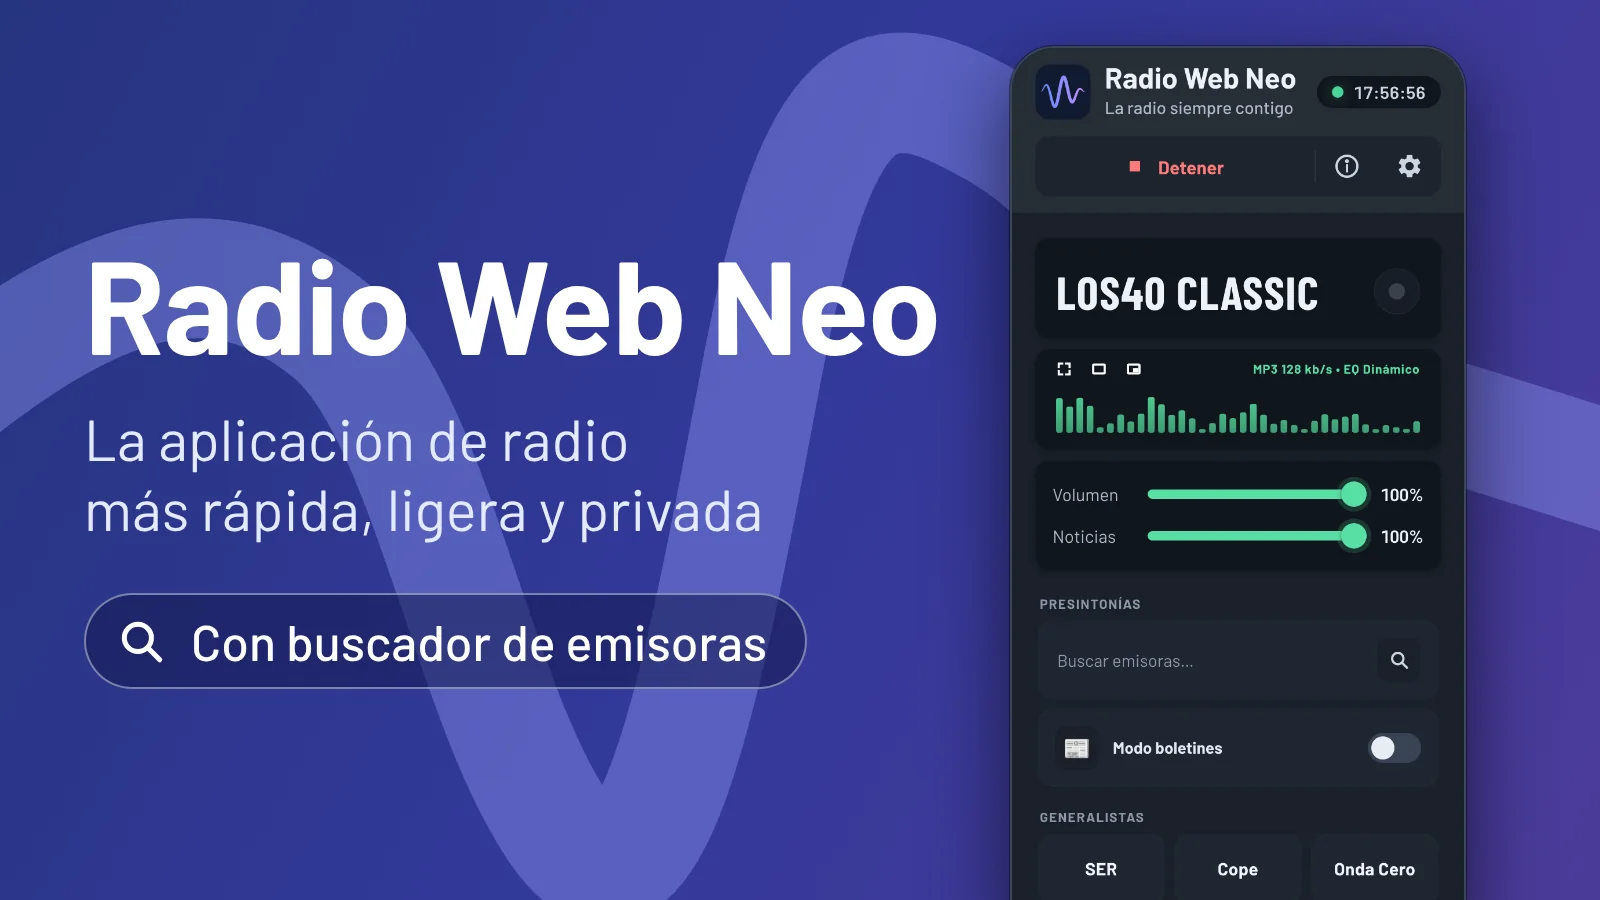
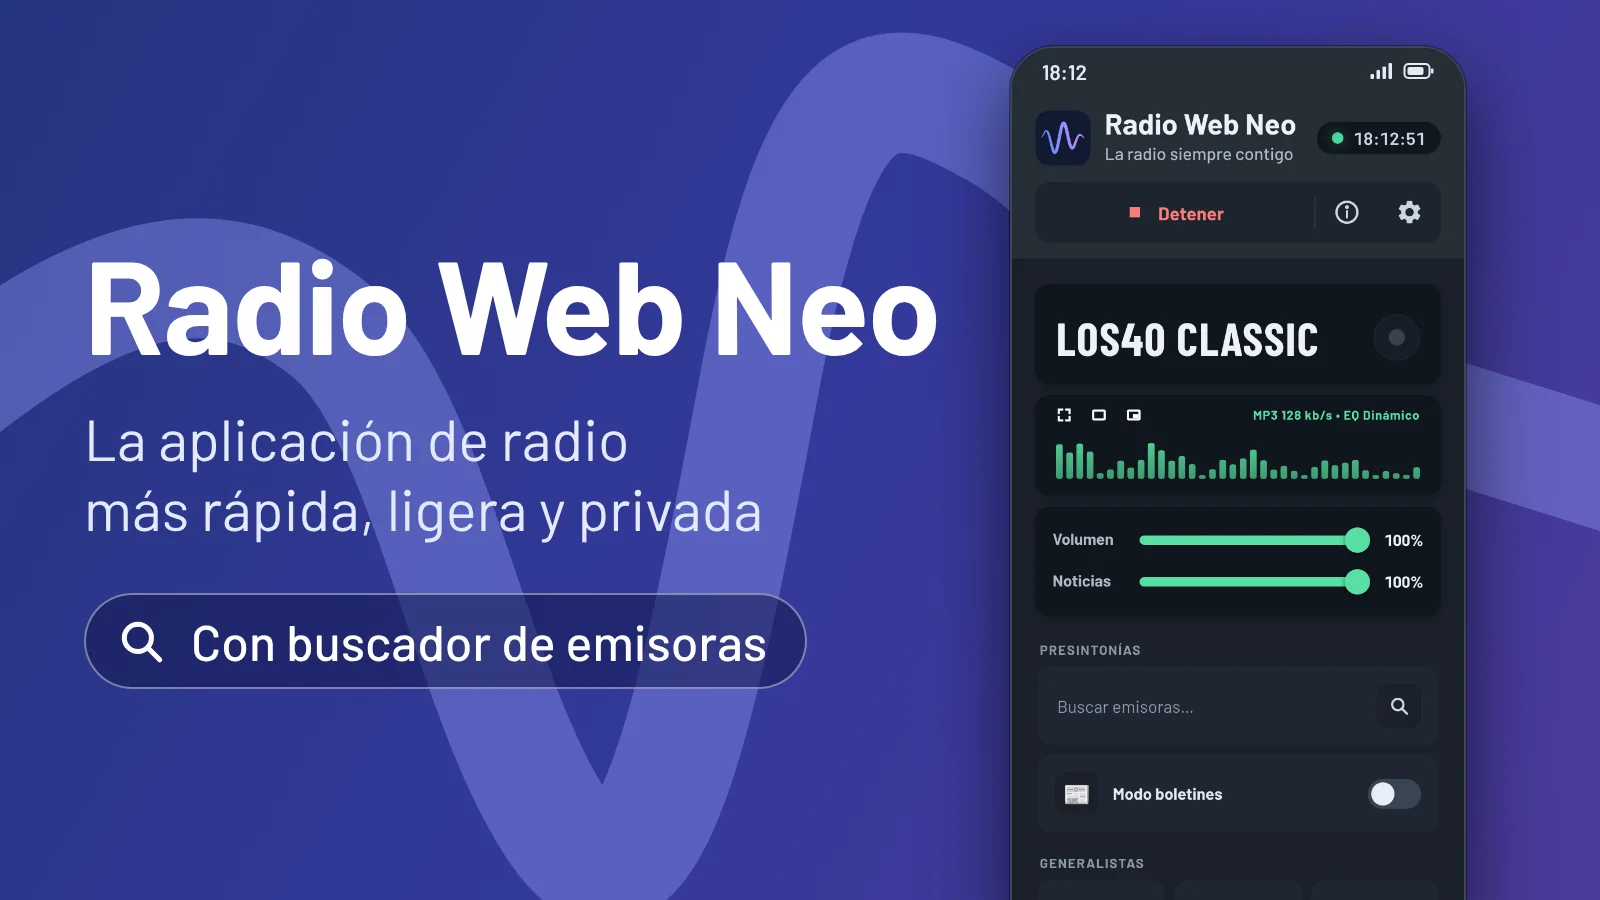
Sin halo en el punto de los volúmenes, textos de volumen más pequeños y en negrita, pie con créditos y enlaces, y primera imagen de promoción con barra de estado para dar aire al título; caché rn-shell-122
Claude-Session: https://claude.ai/code/session_01XLSZwhPhUE6roYAeEy4HVU

diff --git a/css/styles.css b/css/styles.css
@@ -105,17 +105,16 @@ button:disabled { opacity: .45; cursor: default; }
 .panel.vols { display: block; margin-top: 10px; padding: 17px 15px; box-shadow: var(--lift); }
 .vols .volume { margin-top: 0; }
 .vols .volume + .volume { margin-top: 12px; }
-.volume label { flex: 0 0 4.6em; height: 24px; line-height: 24px; font-size: .95rem; color: #aeb9c8; }
-.volume span { flex: 0 0 3.4ch; height: 24px; line-height: 24px; text-align: right; font-size: .95rem; font-weight: 600; color: #edf2f7; font-variant-numeric: tabular-nums; }
+.volume label { flex: 0 0 4.6em; position: relative; top: -1px; height: 24px; line-height: 24px; font-size: .86rem; font-weight: 700; color: #aeb9c8; }
+.volume span { flex: 0 0 3.4ch; height: 24px; line-height: 24px; text-align: right; font-size: .86rem; font-weight: 700; color: #edf2f7; font-variant-numeric: tabular-nums; }
 input { width: 100%; accent-color: var(--accent); }
 /* Deslizadores propios: el nativo de Chrome dibuja un contorno gris alrededor del relleno. --r (0-1) lo pone ui.js (paintRange); el relleno llega al centro del pulgar (22 px) */
 input[type="range"] { -webkit-appearance: none; appearance: none; height: 24px; margin: 0; background: transparent; cursor: pointer; --r: 1; }
 input[type="range"]::-webkit-slider-runnable-track { height: 8px; border-radius: 4px; background: linear-gradient(90deg, var(--accent) calc(11px + (100% - 22px) * var(--r)), #2c3542 0); }
-input[type="range"]::-webkit-slider-thumb { -webkit-appearance: none; width: 22px; height: 22px; margin-top: -7px; border: 0; border-radius: 50%; background: var(--accent); box-shadow: 0 0 0 4px color-mix(in srgb, var(--accent) 18%, transparent), 0 1px 3px #0008; transition: box-shadow .15s ease; }
-input[type="range"]:active::-webkit-slider-thumb { box-shadow: 0 0 0 7px color-mix(in srgb, var(--accent) 24%, transparent), 0 1px 3px #0008; }
+input[type="range"]::-webkit-slider-thumb { -webkit-appearance: none; width: 22px; height: 22px; margin-top: -7px; border: 0; border-radius: 50%; background: var(--accent); box-shadow: 0 1px 3px #0008; }
 input[type="range"]::-moz-range-track { height: 8px; border-radius: 4px; background: #2c3542; }
 input[type="range"]::-moz-range-progress { height: 8px; border-radius: 4px; background: var(--accent); }
-input[type="range"]::-moz-range-thumb { width: 22px; height: 22px; border: 0; border-radius: 50%; background: var(--accent); box-shadow: 0 0 0 4px color-mix(in srgb, var(--accent) 18%, transparent), 0 1px 3px #0008; }
+input[type="range"]::-moz-range-thumb { width: 22px; height: 22px; border: 0; border-radius: 50%; background: var(--accent); box-shadow: 0 1px 3px #0008; }
 input[type="range"]:focus-visible { outline: 2px solid color-mix(in srgb, var(--accent) 70%, transparent); outline-offset: 3px; border-radius: 12px; }
 input[type="range"]:disabled { opacity: .4; }
 
@@ -473,3 +472,13 @@ dialog.intro::backdrop { background: rgba(0, 0, 0, .65); }
 @media (prefers-reduced-motion: reduce) { .intro-step { animation: none; } }
 dialog.ask b { font-size: 1.05rem; }
 dialog.ask p { margin: 10px 0 18px; line-height: 1.4; color: #b8c2cf; }
+
+/* =============================
+   == PIE: CRÉDITOS Y ENLACES ==
+   ============================= */
+.foot { margin: 30px 0 0; padding: 0; text-align: center; font-size: .72rem; line-height: 1.5; color: #7d899a; }
+.foot a { color: inherit; text-decoration: none; }
+.foot a, .foot .nw { white-space: nowrap; }   /* si no cabe en una línea, se parte entre elementos, nunca dentro de uno */
+@media (hover: hover) { .foot a:hover { text-decoration: underline; text-underline-offset: 3px; } }
+.foot a:focus-visible { text-decoration: underline; outline: 0; }
+.foot .fsep { margin: 0 .4em; opacity: .6; }

diff --git a/sw.js b/sw.js
@@ -4,7 +4,7 @@
 // Excepción: stations.json (los ajustes por defecto, con las URL de los streams, que cambian con el tiempo) y los archivos de bbdd/ (la base de datos de emisoras, para la búsqueda) van "red primero", con la caché de respaldo.
 // Los sonidos y la imagen de la notificación (sounds/, img/) NO se gestionan aquí: la propia página los guarda en la caché "rn-sounds", que este archivo respeta.
 // Los streams (otro origen) tampoco pasan por aquí.
-const CACHE = 'rn-shell-121';
+const CACHE = 'rn-shell-122';
 const NET_WAIT_MS = 3000;   // lo que se espera a la red por stations.json y bbdd/ antes de tirar de la copia guardada
 const SHELL = [
   './', './css/styles.css', './fonts/barlow-latin-400-normal.woff2', './fonts/barlow-latin-500-normal.woff2', './fonts/barlow-latin-600-normal.woff2', './fonts/barlow-latin-700-normal.woff2', './fonts/barlow-condensed-latin-700-normal.woff2', './favicon.ico', './favicon-32.png', './icon.svg', './stations.json', './bbdd/ser.json', './bbdd/los40.json', './bbdd/resto.json',

diff --git a/index.html b/index.html
@@ -159,6 +159,7 @@
   <!-- == EMISORAS (GENERALISTAS Y MUSICALES) == -->
   <!-- ================================================ -->
   <div class="presets" id="presets"></div>
+  <footer class="foot"><a href="https://github.com/ManuRS" target="_blank" rel="noopener">Manuel Reyes, 2026</a><span class="fsep">•</span><span class="nw">Con ❤ por la radio</span><span class="fsep">•</span><a href="https://github.com/ManuRS/radio_web_neo" target="_blank" rel="noopener">Proyecto en GitHub</a></footer>
   </div>
 
 </main>
